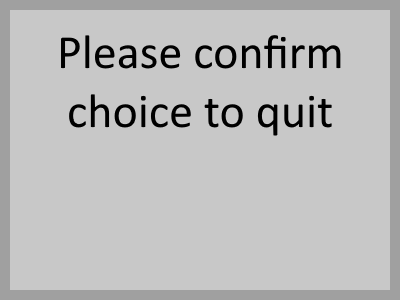
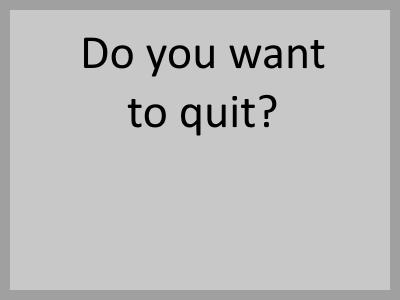
complete app

Changed region(s): [[0.15, 0.3, 0.84, 0.45], [0.15, 0.12, 0.87, 0.27]]

diff --git a/Sudoku.py b/Sudoku.py
@@ -33,6 +33,8 @@ class App:
         puzzle_font = pygame.font.SysFont('Calibri', 48)
         ID_font = pygame.font.SysFont('Calibri', 36, bold=True)
         results = [0,0,0]
+        times = [0,0,0]
+        difficulty = 1
 
         # Random Game Stuff
         window = pygame.display.set_mode((WINDOW_WIDTH, WINDOW_HEIGHT))
@@ -42,9 +44,11 @@ class App:
         FPS = 30
         scene = "start"
         current_puzzle = 1
+        self.start_time = 0
+        self.end_time = 0
 
         # Buttons and game board
-        board, images, image_rects, tile_colors, sel_y, sel_x, empty_tiles = self.newPuzzle(1)
+        board, images, image_rects, tile_colors, sel_y, sel_x, empty_tiles = self.newPuzzle(difficulty)
 
         num_button_images = [[] for i in range(0,9)]
         num_button_rects = [[] for i in range(0,9)]
@@ -59,26 +63,31 @@ class App:
         quit_button_rect.top = 660
         quit_button_rect.left = 1040
 
+        skip_button_image = pygame.image.load("skip.png")
+        skip_button_rect = skip_button_image.get_rect()
+        skip_button_rect.top = 620
+        skip_button_rect.left = 90
+
         quit_prompt_image = pygame.image.load("quit_prompt.png")
         quit_prompt_rect = quit_prompt_image.get_rect()
         quit_prompt_rect.top = 210
         quit_prompt_rect.left = 440
 
-        quit_confirm_image = pygame.image.load("quit_confirm.png")
-        quit_confirm_rect = quit_confirm_image.get_rect()
-        quit_confirm_rect.top = 400
-        quit_confirm_rect.left = 650
+        skip_prompt_image = pygame.image.load("skip_prompt.png")
+        skip_prompt_rect = skip_prompt_image.get_rect()
+        skip_prompt_rect.top = 210
+        skip_prompt_rect.left = 440
 
-        quit_continue_image = pygame.image.load("continue.png")
-        quit_continue_rect = quit_continue_image.get_rect()
-        quit_continue_rect.top = 400
-        quit_continue_rect.left = 470
-        '''
-        finished_incomplete_image = pygame.image.load("finished_incomplete.png")
-        finished_incomplete_rect = finished_incomplete_image.get_rect()
-        finished_incomplete_rect.top = 0 
-        finished_incomplete_rect.left = 0
-        '''
+        quit_yes_image = pygame.image.load("yes.png")
+        quit_yes_rect = quit_yes_image.get_rect()
+        quit_yes_rect.top = 400
+        quit_yes_rect.left = 470
+
+        quit_no_image = pygame.image.load("no.png")
+        quit_no_rect = quit_no_image.get_rect()
+        quit_no_rect.top = 400
+        quit_no_rect.left = 650
+
         rating_button_images = [[] for i in range(0,10)]
         rating_button_rects = [[] for i in range(0,10)]
         for i in range(0,10):
@@ -149,16 +158,48 @@ class App:
                         if quit_button_rect.collidepoint(mouse_pos):
                             scene = "quit_prompt"
 
+                        if skip_button_rect.collidepoint(mouse_pos):
+                            scene = "skip_prompt"
+
                     if scene == "quit_prompt":
-                        if quit_continue_rect.collidepoint(mouse_pos):
+                        if quit_no_rect.collidepoint(mouse_pos):
                             scene = "play"
-                        if quit_confirm_rect.collidepoint(mouse_pos):
+                        if quit_yes_rect.collidepoint(mouse_pos):
                             scene = "finished_incomplete"
+
+                    if scene == "skip_prompt":
+                        if quit_no_rect.collidepoint(mouse_pos):
+                            scene = "play"
+                        if quit_yes_rect.collidepoint(mouse_pos):
+                            results[current_puzzle-1] = 0
+                            times[current_puzzle-1] = 0
+                            if current_puzzle == 3:
+                                    mydb = mysql.connector.connect(
+                                      host="132.145.18.222",
+                                      user="acs2000",
+                                      password="wnd4VKSANY3",
+                                      database="acs2000"
+                                    )
+                                    SQL = f"INSERT INTO Study VALUES ('{ID}', {results[0]}, {results[1]}, {results[2]});"
+                                    SQL2 = f"INSERT INTO Times VALUES ('{ID}', {times[0]}, {times[1]}, {times[2]});"
+                                    db = mydb.cursor()
+                                    db.execute(SQL)
+                                    mydb.commit()
+                                    db.execute(SQL2)
+                                    mydb.commit()
+                                    scene = "finished_success"
+                            
+                            else:
+                                if difficulty != 1:
+                                    difficulty -= 1
+                                board, images, image_rects, tile_colors, sel_y, sel_x, empty_tiles = self.newPuzzle(difficulty)
+                                scene = "play"
+                                current_puzzle += 1
 
                     if scene == "win":
                         for i in range(0,10):
                             if rating_button_rects[i].collidepoint(mouse_pos):
-                                results[current_puzzle-1] = i
+                                results[current_puzzle-1] = i+1
                                 print(results)
                                 
                                 
@@ -170,13 +211,24 @@ class App:
                                       database="acs2000"
                                     )
                                     SQL = f"INSERT INTO Study VALUES ('{ID}', {results[0]}, {results[1]}, {results[2]});"
+                                    SQL2 = f"INSERT INTO Times VALUES ('{ID}', {times[0]}, {times[1]}, {times[2]});"
                                     db = mydb.cursor()
                                     db.execute(SQL)
                                     mydb.commit()
+                                    db.execute(SQL2)
+                                    mydb.commit()
                                     scene = "finished_success"
                                 else:
-                                    # TODO calculate new difficulty
-                                    board, images, image_rects, tile_colors, sel_y, sel_x, empty_tiles = self.newPuzzle(1)
+                                    chosen = i+1
+                                    if chosen <= (difficulty+3):
+                                        difficulty += 3
+                                        if difficulty > 10:
+                                            difficulty -= difficulty % 10
+                                    elif chosen >= difficulty+4:
+                                        if difficulty != 1:
+                                            difficulty -= 1
+                                    print(f"difficulty: {difficulty}")
+                                    board, images, image_rects, tile_colors, sel_y, sel_x, empty_tiles = self.newPuzzle(difficulty)
                                     scene = "play"
                                     current_puzzle += 1
 
@@ -222,14 +274,19 @@ class App:
 
                 # Draws misc buttons and text
                 window.blit(quit_button_image, quit_button_rect)
+                window.blit(skip_button_image, skip_button_rect)
                 curr_puzzle_text = puzzle_font.render(f"Puzzle {current_puzzle} out of 3", False, (0, 0, 0))
                 window.blit(curr_puzzle_text, (90,40))
                 ID_text = ID_font.render(f"Your ID: {ID}", False, (0, 0, 0))
                 window.blit(ID_text, (1060,625))
 
                 if empty_tiles == 0:
-                    time.sleep(3)
+                    time.sleep(0.5)
                     scene = "win"
+                    self.end_time = time.time()
+                    times[current_puzzle-1] = self.end_time - self.start_time
+                    print(times)
+                    
                     
 
             if scene == "win":
@@ -238,9 +295,11 @@ class App:
                     pygame.draw.rect(window, self.WHITE, rating_button_rects[i])
                     window.blit(rating_button_images[i], rating_button_rects[i])
                 line1 = puzzle_font.render(f"You have completed puzzle {current_puzzle}", False, (0, 0, 0))
-                line2 = puzzle_font.render("On a scale from 1 to 10, how difficult did you find that puzzle?", False, (0, 0, 0))
-                window.blit(line1, (350,260))
-                window.blit(line2, (43,310))
+                line2 = puzzle_font.render("Where 1 is extremely easy and 10 is extremely difficult,", False, (0, 0, 0))
+                line3 = puzzle_font.render("how difficult did you find that puzzle?", False, (0, 0, 0))
+                window.blit(line1, (350,210))
+                window.blit(line2, (105,260))
+                window.blit(line3, (280,310))
 
             if scene == "finished_success":
                 window.fill(LIGHT_GRAY)
@@ -263,8 +322,15 @@ class App:
 
             if scene == "quit_prompt":
                 window.blit(quit_prompt_image, quit_prompt_rect)
-                window.blit(quit_confirm_image, quit_confirm_rect)
-                window.blit(quit_continue_image, quit_continue_rect)
+                window.blit(quit_yes_image, quit_yes_rect)
+                window.blit(quit_no_image, quit_no_rect)
+
+            if scene == "skip_prompt":
+                window.blit(skip_prompt_image, skip_prompt_rect)
+                window.blit(quit_yes_image, quit_yes_rect)
+                window.blit(quit_no_image, quit_no_rect)
+                
+                
 
             
             ##pygame.draw.rect(window, WHITE, image_rect)
@@ -279,6 +345,7 @@ class App:
         TILE_WIDTH = 50
         sel_y = 0
         sel_x = 0
+        self.start_time = time.time()
         if difficulty == 0:
             board = [[0 for i in range(0,9)] for j in range(0,9)]
         else:
